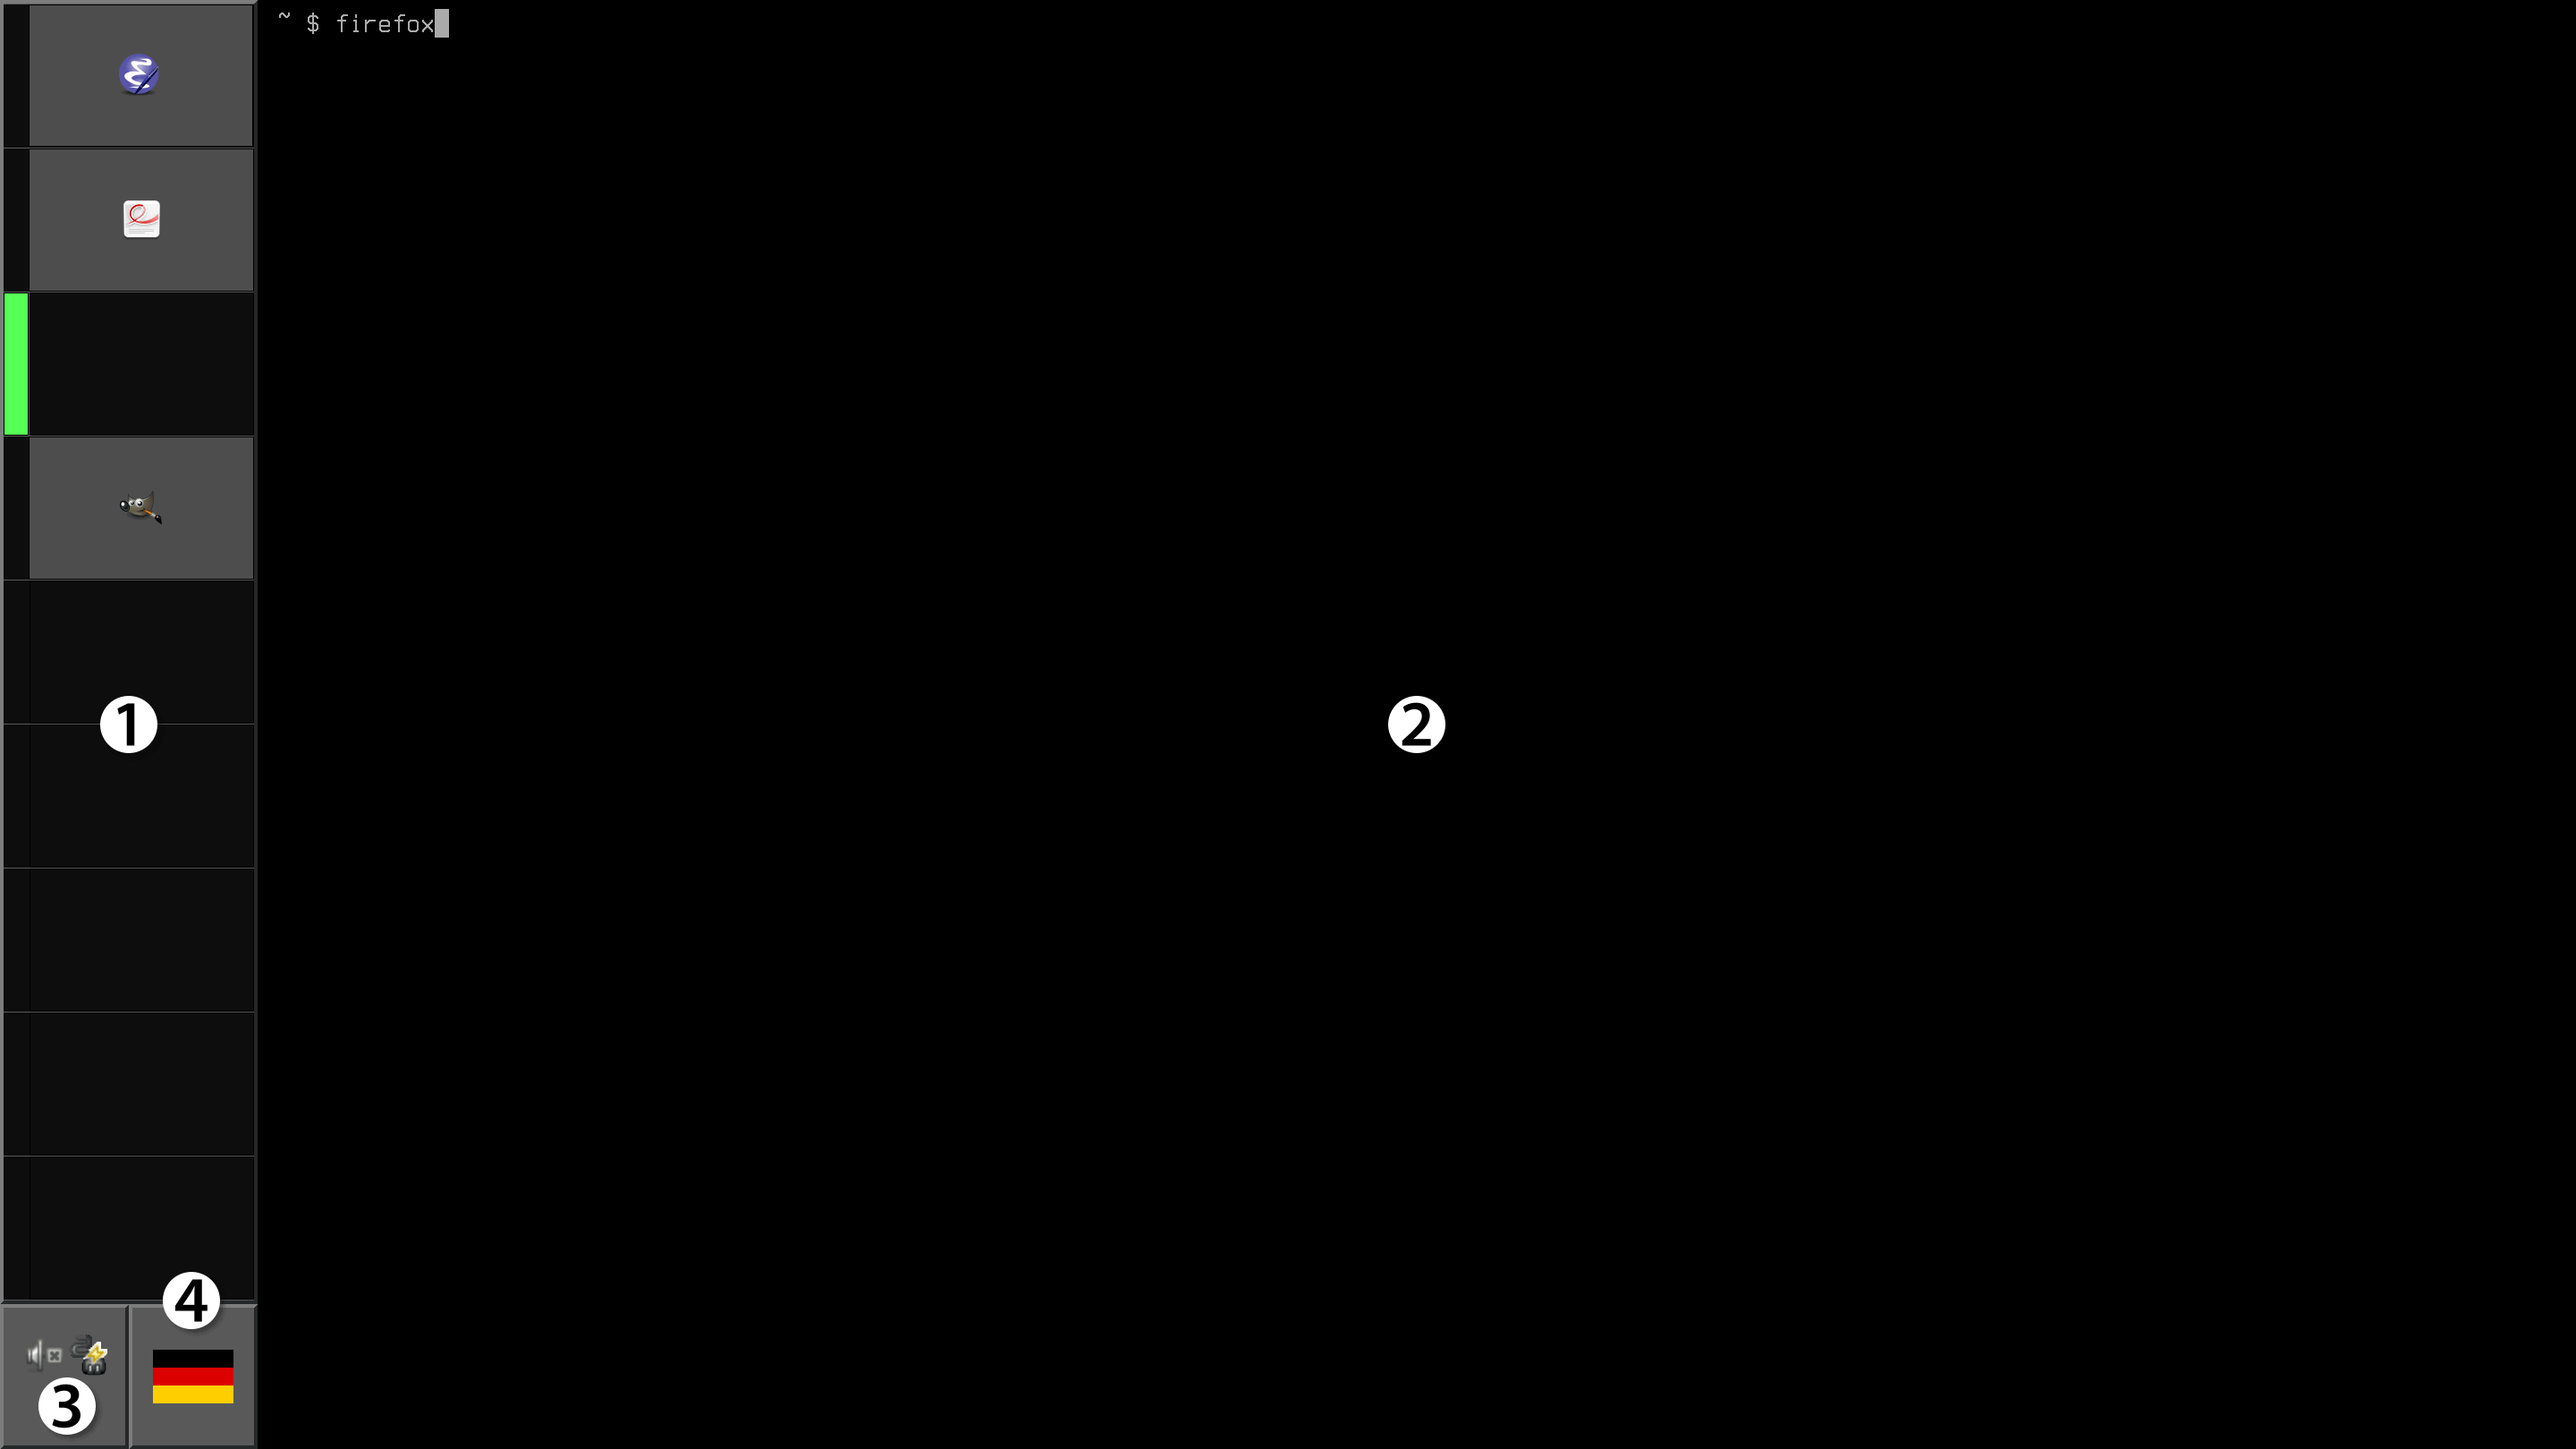
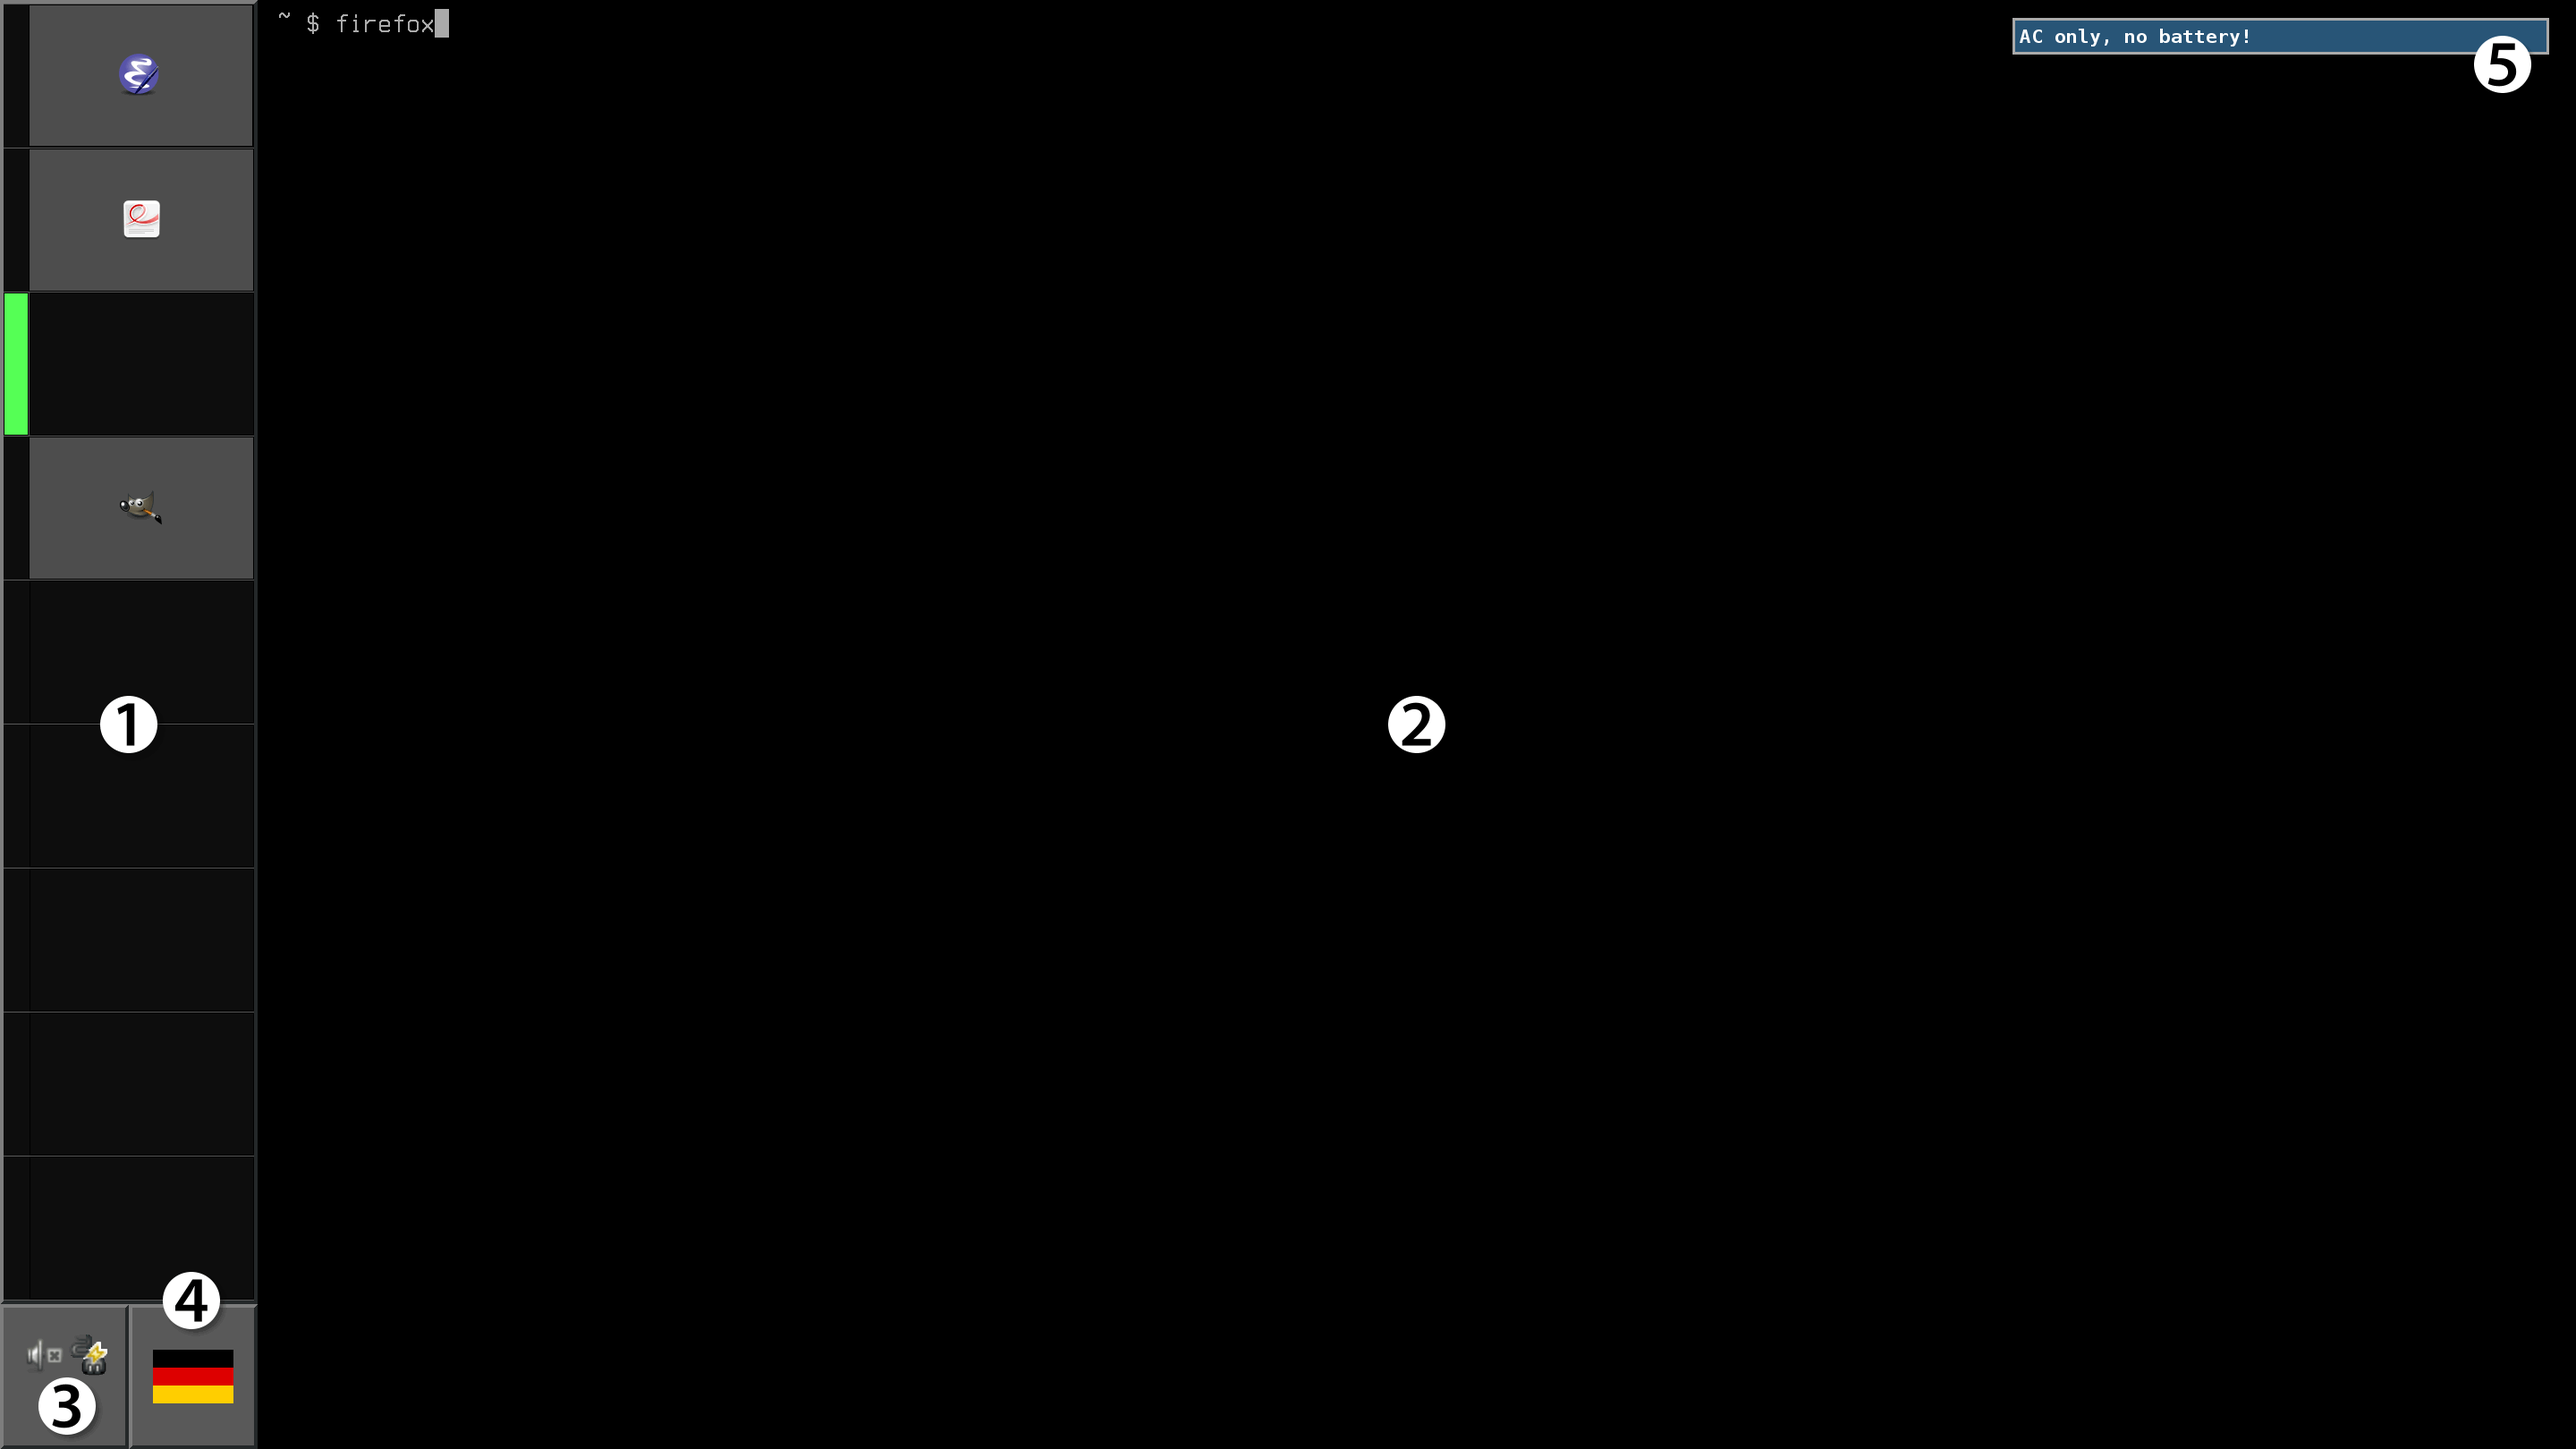
Add desktop notifications

Changed region(s): [[0.7812, 0.0, 1.0, 0.0617]]

diff --git a/README.md b/README.md
@@ -34,6 +34,8 @@ Pristine desktop
 
  4. Keyboard layout switcher. (xxkb)
 
+ 5. Notifications. (dunst)
+
 
 Populated desktop
 -----------------
